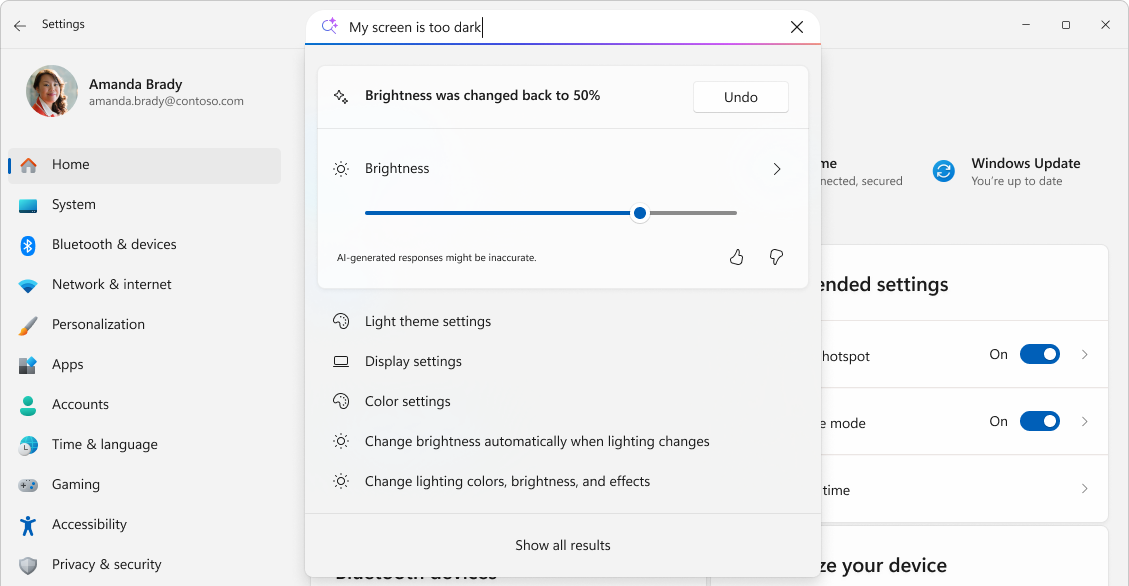
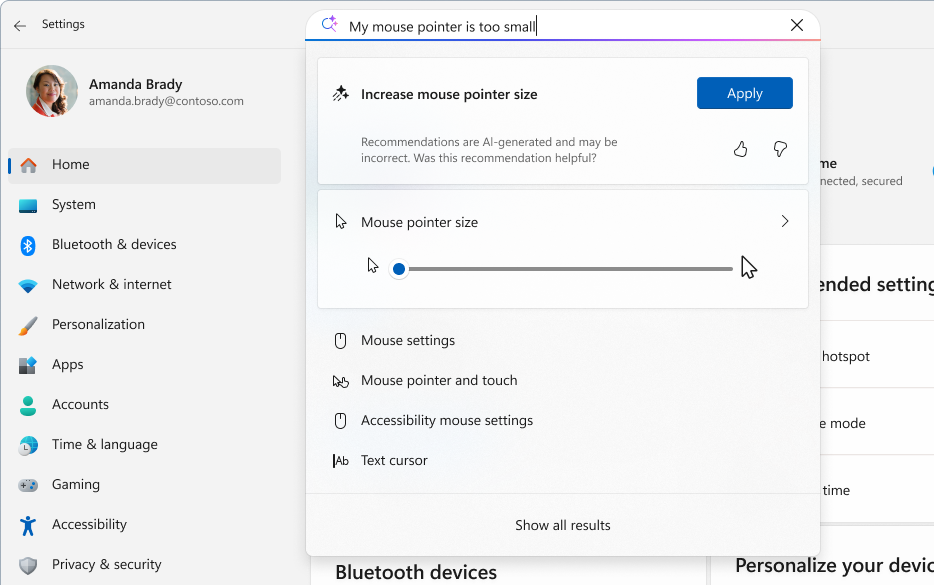
updates

diff --git a/windows/configuration/settings/agent.md b/windows/configuration/settings/agent.md
@@ -17,7 +17,6 @@ The agent guides users through finding and changing settings, offering relevant 
 
 <!--The agent is designed to respect existing policy settings on the device, ensuring that it doesn't override any restrictions already in place.-->
 
-:::image type="content" source="images/settings-agent.png" alt-text="Screenshot of Settings showing the search agent." border="false":::
 
 ## Requirements
 
@@ -34,7 +33,7 @@ The agent in Settings is currently available only on Windows 11 devices that mee
 ### Language and geography requirements
 
 > [!div class="checklist"]
-> - Language: English
+> - Language: English (US, CA, AU, GB), French (FR, CA), German (DE), Spanish (ES, MX), Japanese (JP) & Chinese (Simplified)
 > - Geography: All countries, except Canada and China
 
 ## How it works
@@ -91,7 +90,7 @@ You can configure devices using the [Policy CSP][CSP-1].
 
 If the agent is enabled, users can access it by opening Settings and typing their question in the search box. The agent provides relevant information and recommendations based on the user's input.
 
-:::image type="content" source="images/settings-agent-example.png" alt-text="Screenshot of Settings showing the search agent with an example search." border="false":::
+:::image type="content" source="images/settings-agent.png" alt-text="Screenshot of Settings showing the search agent with an example search." border="false":::
 
 ## Microsoft's commitment to responsible AI and Privacy
 
